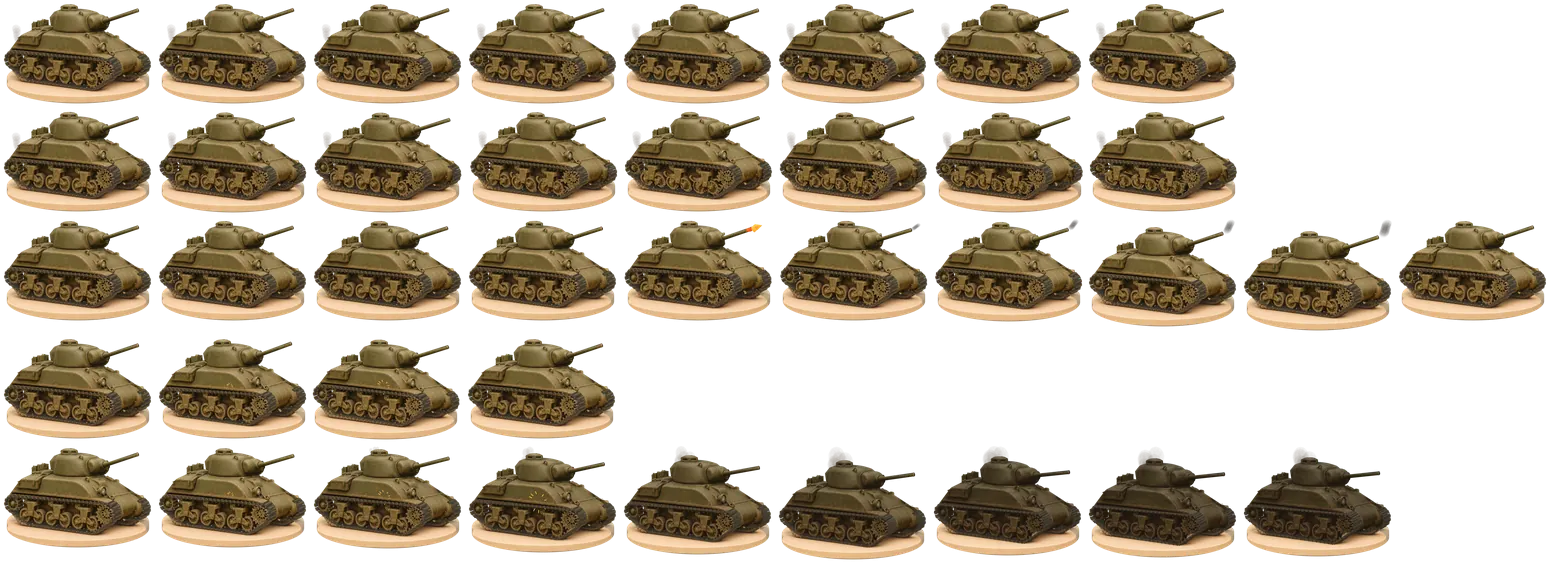
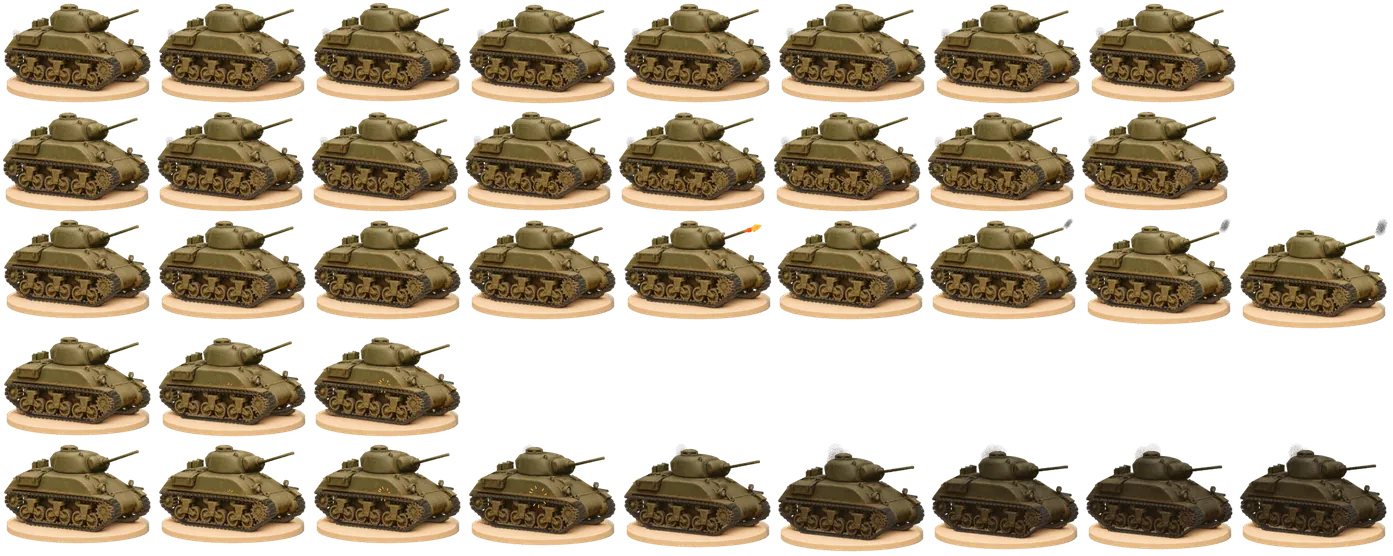
Codex task unit-anim-3d-vehicles: work left uncommitted in the sandbox

diff --git a/tools/art/anim3d/vehicles/refine.py b/tools/art/anim3d/vehicles/refine.py
@@ -21,16 +21,50 @@ sc = bpy.context.scene
 assert not sc.get('registered'), 'Rebuild before repeating geometry registration'
 bpy.context.view_layer.update()
 camera = sc.camera
+construction_camera = camera.copy()
+construction_camera.data = camera.data.copy()
+# The visible lower rim of the reference disc fits a 227 x 42 px ellipse.
+# Calibrate elevation from that round horizontal base, before fitting the kit.
+# This keeps the base circular in world space instead of flattening its mesh.
+target = Vector((0, 0, 1.14))
+camera.location = (5.6, -10, 3.32)
+camera.rotation_euler = (target-camera.location).to_track_quat('-Z', 'Y').to_euler()
+bpy.context.view_layer.update()
 right = camera.rotation_euler.to_matrix() @ Vector((1, 0, 0))
 up = camera.rotation_euler.to_matrix() @ Vector((0, 1, 0))
 units = camera.data.ortho_scale / 256
 records = []
+# Preserve the already fitted armour/equipment landmarks while changing camera
+# elevation. Running gear is solved below against its axles/contact circles;
+# the round stone remains untouched so it determines the physical viewpoint.
+for obj in bpy.data.objects:
+    if obj.type != 'MESH' or 'effect' in obj or obj.name.startswith('Stationary'):
+        continue
+    if obj.parent and ('wheel' in obj.parent or 'track_phase' in obj.parent):
+        continue
+    inverse = obj.matrix_world.inverted()
+    for vertex in obj.data.vertices:
+        world = obj.matrix_world @ vertex.co
+        previous = world_to_camera_view(sc, construction_camera, world)
+        current = world_to_camera_view(sc, camera, world)
+        vertex.co = inverse @ (world + up * (previous.y-current.y)*camera.data.ortho_scale)
+    obj.data.update()
+bpy.data.objects.remove(construction_camera)
 
 
-def fit(label, prefixes, center, scale=(1, 1), offset=(0, 0)):
+def fit(label, prefixes, center, scale=(1, 1), offset=(0, 0), target_bounds=None):
     objects = [o for o in bpy.data.objects
                if o.type == 'MESH' and o.name.startswith(prefixes)]
     assert objects, label
+    if target_bounds:
+        points = [world_to_camera_view(sc, camera, o.matrix_world @ v.co)
+                  for o in objects for v in o.data.vertices]
+        bounds = (min(p.x for p in points)*256, min(1-p.y for p in points)*256,
+                  max(p.x for p in points)*256, max(1-p.y for p in points)*256)
+        center = bounds[:2]
+        scale = tuple((target_bounds[i+2]-target_bounds[i])/(bounds[i+2]-bounds[i])
+                      for i in (0, 1))
+        offset = tuple(target_bounds[i]-bounds[i] for i in (0, 1))
     before, after = [], []
     for obj in objects:
         inverse = obj.matrix_world.inverted()
@@ -52,28 +86,45 @@ def fit(label, prefixes, center, scale=(1, 1), offset=(0, 0)):
 
 
 fit('Cast turret and seam', ('Rounded cast turret', 'Turret casting seam', 'Turret lifting eye'),
-    (171.5, 56), (1.14, .79), (0, 1))
+    (171.5, 56), target_bounds=(83,57,171.5,96))
 fit('Low commander cupola', ('Closed commander', 'Cupola', 'Closed hatch seam', 'Hatch handle'),
-    (126, 59), (.88, .80), (-12, -3))
+    (126, 59), target_bounds=(100,49.5,128,62))
 fit('Gun and mantlet', ('Rounded mantlet', 'Mantlet sleeve', 'Short 75', 'Worn muzzle', 'Dark muzzle'),
-    (165, 85), (1, 1), (-3, -10))
+    (165, 85), target_bounds=(150,57,225.5,95))
 fit('Mantlet casting width', ('Rounded mantlet',), (163, 79), (1.12, .90))
 fit('Rear stowage', ('Rear stowage box', 'Stowage box lid', 'Stowage latch'),
-    (64, 113), (1, .80), (-12, 4))
+    (64, 113), target_bounds=(24,86,99,115))
 fit('Short jerricans', ('Rear deck jerrican', 'Jerrican'),
-    (66, 91), (1, .64), (0, 1))
+    (66, 91), target_bounds=(54,71.5,81,91))
+# Place the real lamp housings at the painted fixtures, instead of relying on a
+# second painted lamp on the glacis. Their old positions were 8/23 px too far left.
+for suffix, dx, dy in (('',8,0),('.001',23,6)):
+    for prefix in ('Headlamp housing','Headlamp dusty glass'):
+        obj=bpy.data.objects[prefix+suffix];inverse=obj.matrix_world.inverted()
+        delta=units*(right*dx-up*dy)
+        for vertex in obj.data.vertices:
+            vertex.co=inverse@(obj.matrix_world@vertex.co+delta)
+        obj.data.update()
+# The source has a slim muzzle; keep a genuine open bore and round barrel.
+for name in ('Short 75 mm barrel','Worn muzzle rim','Dark muzzle bore'):
+    obj=bpy.data.objects[name]
+    center=sum((v.co for v in obj.data.vertices),Vector())/len(obj.data.vertices)
+    for vertex in obj.data.vertices:
+        vertex.co.y=center.y+(vertex.co.y-center.y)*.72
+        vertex.co.z=center.z+(vertex.co.z-center.z)*.72
+    obj.data.update()
 # Extend the bevelled rear armour shoulder under the newly registered stowage.
 # The previous box relocation overhung its supporting hull.
 hull = bpy.data.objects['Sloped upper hull']
 inverse = hull.matrix_world.inverted()
 for vertex in hull.data.vertices:
     influence = max(0, min(1, (-vertex.co.x - .95) / .40))
-    vertex.co = inverse @ (hull.matrix_world @ vertex.co - right * units * 12 * influence)
+    vertex.co = inverse @ (hull.matrix_world @ vertex.co - right * units * 20 * influence)
 hull.data.update()
 records.append(dict(part='Rear shoulder support', extension_px=12, meshes=1))
 # A restrained smoking wreck reads better than the old solid orange spikes.
 for obj in list(bpy.data.objects):
-    if obj.get('effect') == 'fire' or obj.name.startswith(('Wheel radial spoke','Wheel recessed aperture')):
+    if obj.get('effect') == 'fire' or obj.name.startswith(('Wheel radial spoke','Wheel recessed aperture','Sprocket recess')):
         bpy.data.objects.remove(obj, do_unlink=True)
 smoke = bpy.data.materials['Smoke • noise faded 3D shell']
 for node in smoke.node_tree.nodes:
@@ -130,6 +181,11 @@ for side in (-1,1):
         if 'track_phase' in obj and obj['track_side']==side:
             x,z,a=trackpoint(obj['track_phase'])
             obj.location=(x,side*.99,z);obj.rotation_euler.y=a
+            # Reduce the protruding shoe width, preserving pitch and real depth.
+            for child in obj.children:
+                child.location.y*=.85
+                for vertex in child.data.vertices:vertex.co.y*=.85
+                child.data.update()
 # Full-depth fenders clear each independently registered suspension side.
 for obj in bpy.data.objects:
     if obj.type!='MESH' or not obj.name.startswith(('Raised track fender','Fender folded edge','Front mudguard')):continue

diff --git a/tools/art/anim3d/vehicles/render.py b/tools/art/anim3d/vehicles/render.py
@@ -4,7 +4,7 @@ from pathlib import Path
 from mathutils import Vector
 ROOT=Path(os.environ['ANIM_ROOT']); M=ROOT/'masters/tank'
 stage=sys.argv[sys.argv.index('--')+1]
-clip=stage[2:] if stage.startswith('e-') else 'attack' if stage=='d' else None
+clip=stage[2:] if stage.startswith('e-') else 'attack' if stage=='d' else 'move' if stage=='g' else None
 path=M/'clips'/f'{clip}.blend' if clip else M/('tank-plain.blend' if stage=='b' else 'tank.blend')
 bpy.ops.wm.open_mainfile(filepath=str(path));sc=bpy.context.scene
 if sc.camera is None or sc.camera.type!='CAMERA':raise RuntimeError('Tank master has no assigned camera')
@@ -22,7 +22,23 @@ if sc.render.engine=='CYCLES':
 sc.render.resolution_x=sc.render.resolution_y=int(os.environ.get('RESOLUTION','256'))
 out=M/'renders'/stage;out.mkdir(parents=True,exist_ok=True)
 if stage=='b':bpy.data.objects['Vehicle suspension root'].location.z=-.11
-if clip:
+if stage=='g':
+    # Neutral geometry evidence for the mechanical-motion exception to feet checks.
+    clay=bpy.data.materials.new('Running gear review clay');clay.use_nodes=True
+    clay.node_tree.nodes['Principled BSDF'].inputs['Base Color'].default_value=(.34,.30,.23,1)
+    clay.node_tree.nodes['Principled BSDF'].inputs['Roughness'].default_value=.8
+    sc.view_layers[0].material_override=clay
+    for obj in bpy.data.objects:
+        if 'effect' in obj:obj.hide_render=True
+    for view,pos in [('top',(0,0,10)),('front',(9,0,2.2))]:
+        sc.camera.location=pos
+        sc.camera.rotation_euler=(Vector((0,0,1.02))-sc.camera.location).to_track_quat('-Z','Y').to_euler()
+        for i,frame in enumerate(json.loads(sc['sample_frames'])):
+            sc.frame_set(frame)
+            for obj in bpy.data.objects:
+                if 'effect' in obj:obj.hide_render=True
+            sc.render.filepath=str(out/f'{view}-{i:02}.png');bpy.ops.render.render(write_still=True)
+elif clip:
     frames=json.loads(sc['sample_frames'])
     if stage=='d':frames=[frames[i] for i in [0,3,4,9]]
     for i,frame in enumerate(frames):
@@ -31,11 +47,17 @@ if clip:
         if i>0 and frame==frames[i-1]:shutil.copyfile(out/f'{i-1:02}.png',dest);continue
         sc.frame_set(frame);sc.render.filepath=str(dest);bpy.ops.render.render(write_still=True)
 else:
-    views=[('three-quarter',(5.6,-10,4.2)),('front',(9,0,4.4)),('side',(0,-10,4.6))] if stage=='b' else [('three-quarter',(5.6,-10,4.2))]
+    # The saved camera is the calibrated painting viewpoint. Do not silently
+    # restore the original construction camera after freezing projection UVs.
+    views=[('three-quarter',None),('front',(9,0,4.4)),('side',(0,-10,4.6))] if stage=='b' else [('three-quarter',None)]
     for name,pos in views:
-        sc.camera.location=pos;target=Vector((0,0,1.02))
-        if stage=='details':target=Vector((.20,-.1,1.64));sc.camera.data.ortho_scale=2.8
-        sc.camera.rotation_euler=(target-sc.camera.location).to_track_quat('-Z','Y').to_euler()
+        if pos is not None:
+            sc.camera.location=pos
+            sc.camera.rotation_euler=(Vector((0,0,1.02))-sc.camera.location).to_track_quat('-Z','Y').to_euler()
+        if stage=='details':
+            # Dolly parallel to the image plane, retaining projection angle.
+            sc.camera.location += sc.camera.rotation_euler.to_matrix() @ Vector((.12,.48,0))
+            sc.camera.data.ortho_scale=2.8
         sc.render.filepath=str(out/f'{name}.png');bpy.ops.render.render(write_still=True)
-(out/'render.json').write_text(json.dumps({'engine':sc.render.engine,'device':sc.cycles.device if sc.render.engine=='CYCLES' else 'host Metal','resolution':sc.render.resolution_x,'samples':sc.cycles.samples if sc.render.engine=='CYCLES' else None,'blend_sha256':hashlib.sha256(path.read_bytes()).hexdigest(),'blender':bpy.app.version_string},indent=2))
+(out/'render.json').write_text(json.dumps({'engine':sc.render.engine,'device':sc.cycles.device if sc.render.engine=='CYCLES' else 'host Metal','resolution':sc.render.resolution_x,'samples':sc.cycles.samples if sc.render.engine=='CYCLES' else None,'blend_sha256':hashlib.sha256(path.read_bytes()).hexdigest(),'blender':bpy.app.version_string,'camera':{'location':list(sc.camera.location),'rotation':list(sc.camera.rotation_euler),'ortho_scale':sc.camera.data.ortho_scale}},indent=2))
 print('RENDER_READY',out)

diff --git a/tools/art/anim3d/vehicles/review.py b/tools/art/anim3d/vehicles/review.py
@@ -4,11 +4,27 @@ from pathlib import Path
 from PIL import Image,ImageDraw
 R=Path(os.environ.get('ANIM_ROOT',str(Path.home()/'LegatumRuns/anim-pilot'))); M=R/'masters/tank'; review=R/'review/3d-v2'
 stage=sys.argv[1]; folder=M/'renders'/stage
+if stage=='g':
+    sheet=Image.new('RGB',(8*256,2*284),(224,215,191));draw=ImageDraw.Draw(sheet)
+    for row,view in enumerate(('top','front')):
+        for i in range(8):
+            im=Image.open(folder/f'{view}-{i:02}.png').convert('RGBA').resize((256,256),Image.Resampling.LANCZOS)
+            draw.text((i*256+8,row*284+8),f'{view} / move {i} / geometry',fill=(40,34,27))
+            sheet.paste(im,(i*256,row*284+28),im)
+    sheet.save(review/'tank-g-feet-check.png')
+    with (review/'tank-log.md').open('a') as f:f.write('- Emitted tank-g-feet-check.png: actual top/front geometry renders of all eight move samples.\n')
+    raise SystemExit(0)
 names=['three-quarter','front','side'] if stage=='b' else [p.stem for p in sorted(folder.glob('*.png'))]
 source=Image.open('app/src/assets/units/tank-256.png').convert('RGBA')
 images=[('Painting',source)]+[(n,Image.open(folder/f'{n}.png').convert('RGBA').resize((256,256),Image.Resampling.LANCZOS)) for n in names]
 if stage=='details':
-    crop=Image.open('app/src/assets/units/tank-panel.png').convert('RGBA').crop((120,90,440,410)).resize((256,256),Image.Resampling.LANCZOS)
+    # Same camera-plane translation and magnification as render.py's detail view.
+    # An arbitrary panel crop compared different parts at different scales.
+    field=4.95;size=1024;half=2.8/field*size/2
+    cx=size/2+.12/field*size;cy=size/2-.48/field*size
+    crop=Image.open(M/'textures/painting-projection.png').convert('RGBA').crop(
+        tuple(round(v) for v in (cx-half,cy-half,cx+half,cy+half))
+    ).resize((256,256),Image.Resampling.LANCZOS)
     images.insert(1,('Painting detail',crop))
 sheet=Image.new('RGB',(len(images)*272,380),(224,215,191));d=ImageDraw.Draw(sheet)
 for i,(name,im) in enumerate(images):

diff --git a/tools/art/anim3d/vehicles/archive.py b/tools/art/anim3d/vehicles/archive.py
@@ -3,14 +3,14 @@ import os, sys, json, shutil, hashlib
 from pathlib import Path
 from PIL import Image
 R=Path(os.environ['ANIM_ROOT']);M=R/'masters/tank'
-for stage in ('b','c','details','d','e-idle','e-move','e-attack','e-hit','e-death'):
+for stage in ('b','c','details','d','e-idle','e-move','e-attack','e-hit','e-death','g'):
     folder=M/'renders'/stage
     report=json.loads((folder/'render.json').read_text())
     size=report['resolution']
-    clip=stage[2:] if stage.startswith('e-') else 'attack' if stage=='d' else None
+    clip=stage[2:] if stage.startswith('e-') else 'attack' if stage=='d' else 'move' if stage=='g' else None
     master=M/'clips'/f'{clip}.blend' if clip else M/('tank-plain.blend' if stage=='b' else 'tank.blend')
     assert report['blend_sha256']==hashlib.sha256(master.read_bytes()).hexdigest(), 'Stale master'
-    if stage!='b':assert report['grade_sha256']==hashlib.sha256((M/'grade.json').read_bytes()).hexdigest(), 'Stale grade'
+    if stage not in ('b','g'):assert report['grade_sha256']==hashlib.sha256((M/'grade.json').read_bytes()).hexdigest(), 'Stale grade'
     if '--require-512' in sys.argv:
         assert size==512 and report['device']=='GPU',(stage,report)
     assert size>=256

diff --git a/tools/art/anim3d/vehicles/animate.py b/tools/art/anim3d/vehicles/animate.py
@@ -18,10 +18,9 @@ for clip,(count,fps,loop) in CLIPS.items():
     root=bpy.data.objects['Vehicle suspension root'];turret=bpy.data.objects['Turret traverse'];gun=bpy.data.objects['Gun recoil']
     bpy.context.view_layer.update()
     # Match the registered barrel muzzle, preserving local recoil/traverse motion.
-    camera_basis=sc.camera.rotation_euler.to_matrix()
-    gun_effect_shift=gun.matrix_world.inverted().to_3x3() @ (
-        camera_basis @ Vector((-3,10,0)) * sc.camera.data.ortho_scale/256
-    ) if sc.get('registered') else Vector((0,0,0))
+    muzzle=bpy.data.objects['Dark muzzle bore']
+    muzzle_center=sum((v.co for v in muzzle.data.vertices),Vector())/len(muzzle.data.vertices)
+    gun_effect_shift=gun.matrix_world.inverted() @ (muzzle.matrix_world @ muzzle_center)-Vector((1.355,0,0))
     wheels=[o for o in bpy.data.objects if 'wheel' in o];links=[o for o in bpy.data.objects if 'track_phase' in o];effects=[o for o in bpy.data.objects if 'effect' in o]
     movers=[root,turret,gun]+wheels+links+effects
     burns=[]

diff --git a/tools/art/anim3d/vehicles/deliver.py b/tools/art/anim3d/vehicles/deliver.py
@@ -62,6 +62,9 @@ def validate():
     assert report['atlas_sha256']==digest(OUT/'tank.webp')
     assert len({r['grade_sha256'] for r in report['renders'].values()})==1
     assert next(iter(report['renders'].values()))['grade_sha256']==digest(M/'grade.json')
+    rest_report=json.loads((M/'renders/c/render.json').read_text())
+    assert rest_report['blend_sha256']==digest(M/'tank.blend'), 'Stale rest master'
+    assert all(r['camera']==rest_report['camera'] for r in report['renders'].values()), 'Clip/rest camera mismatch'
     occupied=Image.new('L',atlas.size);motion={};restored={}
     for row,(clip,(count,fps,loop)) in enumerate(CLIPS.items()):
         c=meta['clips'][clip]

diff --git a/tools/art/anim3d/vehicles/paint.py b/tools/art/anim3d/vehicles/paint.py
@@ -28,7 +28,7 @@ for name in names:
     for loop in mesh.loops:
         v=mesh.vertices[loop.vertex_index];p=world_to_camera_view(sc,sc.camera,o.matrix_world @ v.co)
         uv.data[loop.index].uv=Vector((p.x,p.y))+shift
-        facing=max(0,min(1,((normalmatrix @ v.normal).normalized().dot(view)+.08)/.22))
+        facing=max(0,min(1,((normalmatrix @ v.normal).normalized().dot(view)+.08)/.08))
         weights.data[loop.index].color=(facing,facing,facing,1)
     original_material=o.data.materials[0]
     if original_material.name in materials:

diff --git a/tools/art/anim3d/vehicles/grade.py b/tools/art/anim3d/vehicles/grade.py
@@ -5,7 +5,7 @@ from pathlib import Path
 from PIL import Image
 import os,sys,json,shutil,hashlib
 R=Path(os.environ['ANIM_ROOT']);M=R/'masters/tank';stage=sys.argv[1];folder=M/'renders'/stage
-if stage=='b':raise SystemExit(0)
+if stage in ('b','g'):raise SystemExit(0)
 def samples(im):
     channels=[[],[],[]]
     for r,g,b,a in im.convert('RGBA').getdata():

diff --git a/tools/art/anim3d/vehicles/REVIEW.md b/tools/art/anim3d/vehicles/REVIEW.md
@@ -1,25 +1,23 @@
-# Tank candidate — resumed round 2
+# Tank candidate — round 3 after GPU review
 
-The painting remains the production asset. This is a true-3D animation candidate with no runtime wiring and **no tank-PASS marker**. The image is substantially closer, but it is still distinguishable from the painting at 256px.
+**Not visually passed.** The painting remains the production asset; this lane has no runtime wiring or `tank-PASS` marker. The lead's round-2 receipt confirms Cycles GPU512/256 samples, all 40 frames, a Q80/190,044-byte atlas and an eight-second video. Those renders and masters are preserved under `masters/tank/round2-gpu-receipt/`.
 
-The resumed WIP now has tested full-depth geometry registration, source-camera painting projection, the recorded image-generated olive hidden-surface fill, six actual AO/curvature bakes, bevelled cast parts, solid folded canvas and straps, product lighting and one automatic histogram grade for every frame. The gun was raised 10 native pixels, the cast turret widened/lowered, the cupola reduced/moved, jerricans shortened, and rear stowage supported by the extended hull shoulder. Rotating road wheels/bogies were registered to painted centres. Track shoes retain physical steel rather than carrying whole projected bogie fragments around the belt. Source sprocket textures are centred on their real axles. Death is now a soot-darkened smoking wreck; orange polygon spikes were removed and the stone is excluded from soot.
+This revision calibrates the camera from the round stone's lower-rim ellipse, keeps the saved camera through rendering, re-fits rear armour/stowage and real headlamps, narrows the shoes and muzzle, and removes invented black sprocket plugs. Existing generated hidden-surface fill, bevels, thick straps/folded canvas, product lighting, six fresh AO/curvature bakes, frozen camera projection and automatic histogram grading remain. Effects now follow the measured muzzle. Detail comparison uses matching framing. The GPU script also produces top/front geometry views of the complete eight-frame move cycle; this is the mechanical equivalent of the feet check.
 
-At **256px**, gun/turret registration, hull brushwork and cream stone are much improved. Remaining differences include end-sprocket placement/track profile, the rear shoulder and fender silhouette, somewhat uniform wheel finish, and painted lighting that travels with rotating wheels. Smoke needs higher-sample GPU review. At **64px**, it clearly reads as the same WWII tank, but the running gear is still more regular and the rear silhouette differs. The five strips were inspected; no frame-edge clipping was seen. This is not a claim that all five clips meet the final craft bar.
+At **256px**, the base and rear outline are closer, with rich painted surfaces; the far fender, circular wheel finish and some fixture contours still differ. At **64px**, it reads as the same WWII tank, but is not indistinguishable. The five strips and decoded video frames were inspected: no frame-edge clipping, clean recoil/hit/held wreck, but painted wheel lighting travels during rotation and low-sample smoke is grainy. Top/front views show parallel running gear; physical contact and travel/radius checks pass. Off-angle views expose the locally fitted geometry, so this is not a general-purpose vehicle model.
 
-Descriptive measurements versus the retained round-1 rest render: 256px alpha-mask IoU increased from 0.8635 to 0.9263; mean absolute RGB error over opaque overlapping pixels fell from 33.034 to 12.336. At 64px those measurements are 0.9304 and 10.627. These are not approval thresholds. Evidence is in `masters/tank/comparison-metrics.json` and the native-size `tank-f-restpose-compare.png`.
+Descriptive source comparisons: native 256px alpha IoU **.927584 → .949746**, opaque-overlap RGB MAE **6.595 → 7.489**. At native 64px, IoU **.896830 → .912717**, RGB MAE **15.993 → 16.127**. The prior frame is GPU512/256 samples and the new frame CPU256/12 samples; these are not like-for-like quality results or approval thresholds. Exact evidence is in `review/3d-v2/tank-round3-metrics.json`.
 
-The final **CPU preview** contract passes: **198,480 bytes, WebP quality 81, 40 frames, logical 160px cells, trimmed 1503x564 atlas**. JSON version 2 carries per-frame atlas rectangles and logical offsets; the exact drawing rule is in the Vehicles chapter of `PLAYBOOK.md`. Validation checks source/master/grade hashes, all counts, bounds, offsets, nonoverlap, transparent padding, motion and identical final death samples. Saved-scene audit passes for 124 moving links, 16 wheel pivots, recoil, planted samples, stationary base and six bakes. Thirteen Python scripts parse; the three shell entry points pass `bash -n`; `git diff --check` passes. No Rust or application logic changed.
+Current CPU delivery passes: **180,602 bytes at Q80**, all 40 frames, 160px trimmed cells. Validation checks source/scene/grade hashes, rest/clip camera agreement, counts/timing, bounds, offsets, nonoverlap, exact reconstructed alpha and identical decoded terminal death. Geometry audit passes 124 links, 16 wheel pivots, travel/radius, recoil, contact, six bakes and stationary base. Three numerical belt tests pass; 16 Python files parse; three shell entry points pass syntax checks. No Rust/UI code changed.
 
-All five clip masters, 256px CPU renders and review strips/WebPs are retained outside git under `~/LegatumRuns/anim-pilot/masters/tank/` and `review/3d-v2/`. The eight-second CPU video is `tank-round2-cpu.mp4`; the GPU script writes the driver's exact `tank-round${ROUND}.mp4` name. A real 512px GPU frame set remains **pending**; none was fabricated by upscaling these previews.
+Current 256px masters, all interim sheets/WebPs, `tank-g-feet-check.png`, and `tank-round3-cpu.mp4` exist outside git. The video probe confirms H.264/yuv420p, 1600x348, 240 frames/eight seconds. Previous 512px masters are explicitly filed with the old GPU receipt; fresh 512px masters for this revision remain pending the lead's GPU pass.
 
-The executable no-argument host handoff, from the repository root, is:
+From this checkout run:
 
 ```sh
-ROUND=2 tools/art/anim3d/units/tank/gpu.sh
+ROUND=3 tools/art/anim3d/units/tank/gpu.sh
 ```
 
-It uses the saved current masters, explicitly selects Metal Cycles/512px/256 samples with denoising, renders every stage and all clips, retains actual 512 and downsampled 256 masters, packs/validates, audits geometry and creates/probes/decodes the five-up H.264/yuv420p video. Metal is unavailable in this sandbox, so host execution and visual approval are outstanding. Do not rebuild just to rerender.
+The executable no-argument script renders every stage and clip serially with Metal Cycles at 512px/256 samples, archives actual 512/256 masters, packs and validates the atlas, audits geometry, makes the crossfade and top/front review, and probes/decodes `tank-round3.mp4`. It leaves visual approval to the reviewer and never writes PASS automatically.
 
-For a clean rebuild, run `vehicles-build`, `vehicles-refine`, `vehicles-b`, `vehicles-bake`, `vehicles-paint`, `vehicles-c`, and `vehicles-animate` in that order before the final rendering pass. `tank-built.blend` preserves construction geometry and makes refinement repeatable. Original round-1 masters remain in `round1-backup`.
-
-Non-obvious findings: projecting whole rest-camera wheel/bogie fragments onto moving track links looks convincing at rest and tears during travel. Register individual wheel centres and keep travelling shoes on their own material. A source-landmark-fitted track route can also break real fender clearance and base contact; the rejected experiment failed the hit contact audit and was removed. Keep the planted belt until the entire chassis/fender/axle system can be calibrated together. Never hide smoke by zero scaling; use visibility keys and real thickness. Avoid editing a shell wrapper while a process is running it.
+Non-obvious findings: a renderer that restores a construction camera silently breaks frozen projection when camera calibration changes. Match the detail comparison's source crop to the rendered camera too. A lower base ellipse can improve the rest silhouette while exposing fixture occlusion and lighting errors; inspect actual meshes and animation after each fit. Projecting wheel/bogie fragments onto moving shoes tears during motion, so travelling shoes retain their own pigment. Small atlas size and a successful GPU job do not establish art parity.

diff --git a/tools/art/anim3d/PLAYBOOK.md b/tools/art/anim3d/PLAYBOOK.md
@@ -179,18 +179,47 @@ success with visual review still pending. The master exporter now checks scene
 and grade hashes; the atlas validator checks exact reconstructed alpha and an
 identical decoded death hold. The scaled anchor preserves fractional pixels.
 
-The runner reassigned lane-5 to settler during this round. Tank work continues on
-`astra/unit-anim-3d-vehicles` in `.worktrees/tank-round3`; run its GPU script from
-that checkout. No supplied round-2 GPU receipt was found; prior review metadata
-was CPU256. Do not infer GPU success from CPU previews or from script syntax.
+### Round 3 after the lead GPU receipt
 
-Round-3 CPU delivery is **199,082 bytes at Q85**, 1384x564 pixels, all forty
-samples with exact reconstructed alpha and identical decoded death hold. The
-geometry/speed audit, three belt tests, syntax and video checks pass. Rest alpha
-IoU is .927420 (prior .926284); opaque-overlap RGB MAE is 7.605 (prior 12.336).
-These metrics do not establish art parity. Wheel finish, fender contours and
-painted illumination rotating with wheels remain review items; no PASS marker.
-Device discovery now uses a normal gated CPU startup because it does no GPU
-rendering; final renders retain the machine-wide GPU gate. The complete entry
-point was exercised in the sandbox and failed explicitly at Metal preflight,
-leaving CPU previews untouched. Fresh GPU512 output is still required.
+The lane is `astra/unit-anim-3d-vehicles` in `.worktrees/tank-round3`; run its
+GPU script from that checkout. The lead's `gpu-logs-tank-r2.log` and saved reports
+confirm Cycles GPU512 at 256 samples completed: 190,044 bytes at Q80 and an
+8-second H.264/yuv420p video. Earlier missing-GPU notes were historical. That
+receipt, the old rendered frames/clip masters and actual 512px exports are
+preserved under `masters/tank/round2-gpu-receipt/`.
+
+The round base's lower rim gives a better camera constraint than the hull alone:
+its approximately 227 x 42px projected ellipse implies a lower elevation. The
+saved camera is now `(5.6,-10,3.32)` looking at `(0,0,1.14)`, orthographic scale
+4.95. The base remains a real round horizontal cylinder. Armour vertices are
+registered in the camera plane, retaining depth; wheel pivots and track routes
+are fitted separately while preserving physical ground contact. The first
+camera trial exposed misplaced fixtures: keep real lamp housings at the source
+landmarks, rather than accepting painted duplicate fixtures on the glacis.
+Rear stowage is wider/lower, shoes are 15% narrower, the muzzle is slimmer and
+invented black sprocket plugs are removed. These are local painting fits, not
+proof of a unique physically recovered camera or a reusable multi-view model.
+
+`render.py` now retains the saved camera instead of resetting the construction
+camera after UV projection. The detail view is a parallel dolly and its reference
+crop has the same framing/magnification. Delivery checks exact clip/rest camera
+metadata, in addition to current scene and grade hashes. Flash/smoke origins are
+measured from the actual registered muzzle rather than a fixed pixel offset.
+
+`vehicles-g` renders all eight move samples from top and front with a neutral
+material override and produces `tank-g-feet-check.png`. The vehicle has no human
+or animal gait; this is its mechanical equivalent of the common feet review.
+Use the physical track-speed/contact audit alongside the sheet. GPU handoff
+includes these renders and archives them at 512/256. Unit-local provenance now
+lives in `units/tank/SOURCES.md` as well as the external source registry.
+
+Current CPU256/12-sample delivery: **180,602 bytes at Q80**, 40 frames, trimmed
+160px logical cells. All three belt tests, geometry/contact audit, atlas alpha /
+anchor / clip / camera / terminal-hold checks and the 240-frame, 8-second video
+probe pass. At256 alpha IoU changes from .927584 (previous GPU) to .949746 (new
+CPU); opaque RGB MAE changes from 6.595 to 7.489. These are different render
+settings and are descriptive, not an art threshold. At64 the identity survives,
+but the running gear and far fender remain distinguishable. Painted illumination
+still rotates with wheel texture; CPU smoke is grainy. **No tank-PASS marker.**
+The fresh GPU512 pass and visual review are still required for these changed
+masters. Run `ROUND=3 tools/art/anim3d/units/tank/gpu.sh`.

diff --git a/tools/art/anim3d/units/tank/SOURCES.md b/tools/art/anim3d/units/tank/SOURCES.md
@@ -1,0 +1,8 @@
+# Tank animation sources
+
+- Original Legatum tank painting, project CC BY 4.0: https://pub-fb5c281dd12d4ea4bbd38d657cdeb907.r2.dev/app/src/assets/units/tank-source.png . Full master is external at `masters/tank/tank-source.png`; frozen rest-camera UVs on closed 3D geometry. `assets.lock.json` pins the bytes.
+- Painted olive hidden-surface fill: original project image generation, 2026-11-22, CC BY 4.0, reused from the artillery lane. Generation `01a20674-c612-7411-9c8a-075f46e56d4c/exec-bdc68bad-f161-45e0-b0ec-31203ac453e8.png`; no public URL. External `assets/tank/painted-olive.png`, hash in `assets.lock.json`. No new generation this round.
+- Metal034 and Travertine001, ambientCG CC0-1.0, existing 1K packs: https://ambientcg.com/get?file=Metal034_1K-JPG.zip and https://ambientcg.com/get?file=Travertine001_1K-JPG.zip . Original steel/stone pigment over scan microstructure.
+- Existing Blender 5.3.0 (https://www.blender.org/, GPL software), Pillow 13.0.0 (https://pypi.org/project/pillow/13.0.0/, MIT-CMU), FFmpeg. Original geometry, mechanical rig and scripts: MIT; rendered artwork: CC BY 4.0.
+
+This unit contains no human or animal gait. Its motion is mechanical: arc-length track travel, wheel travel/radius, turret traversal, recoil and suspension. `tank-g-feet-check.png` provides actual top/front geometry views over all eight move samples. No mocap is used or claimed. Assets, bakes and masters stay under `~/LegatumRuns/anim-pilot/`.
